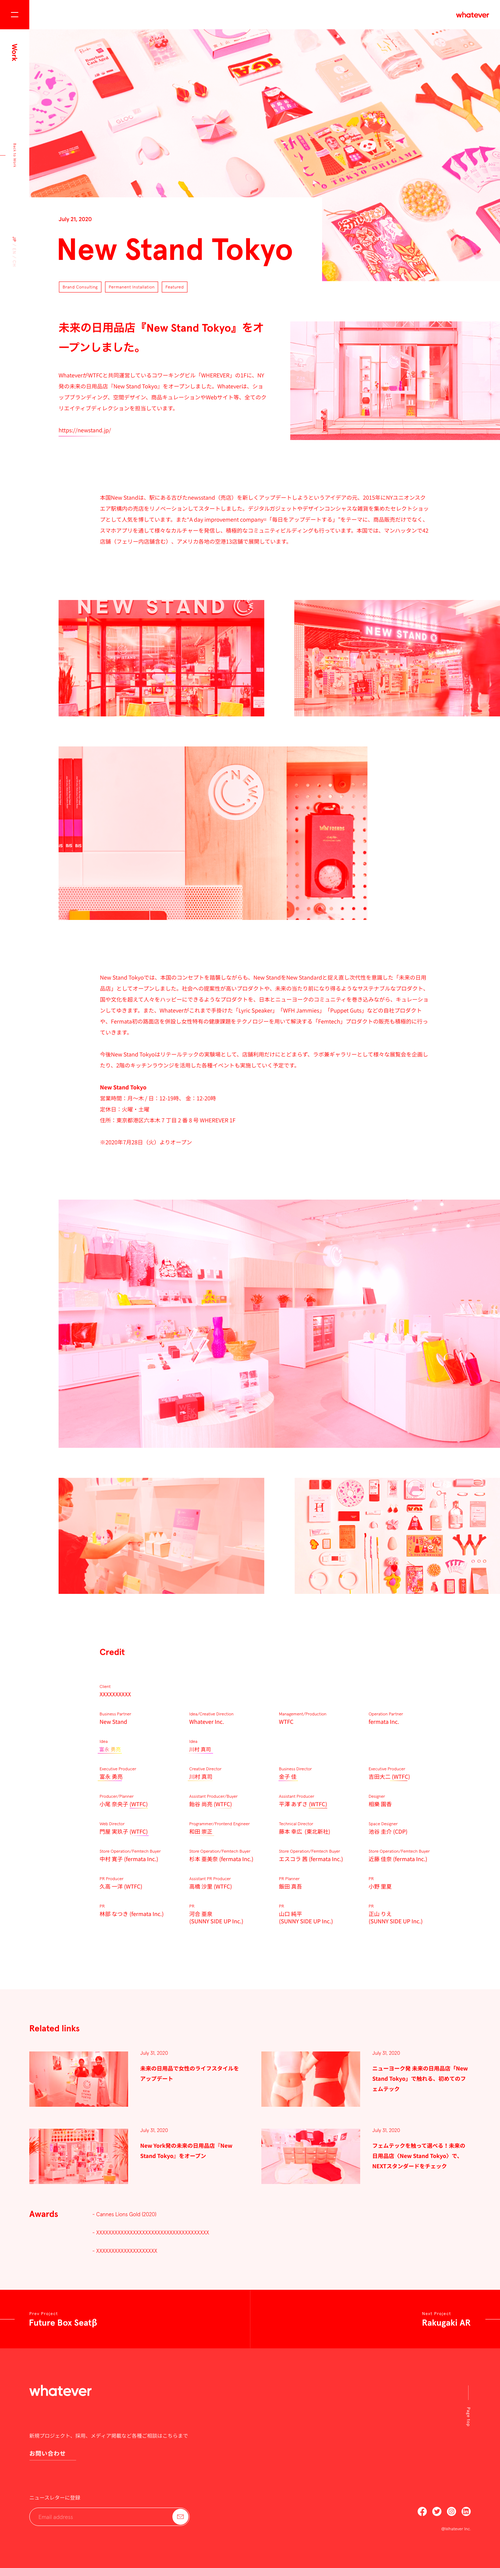
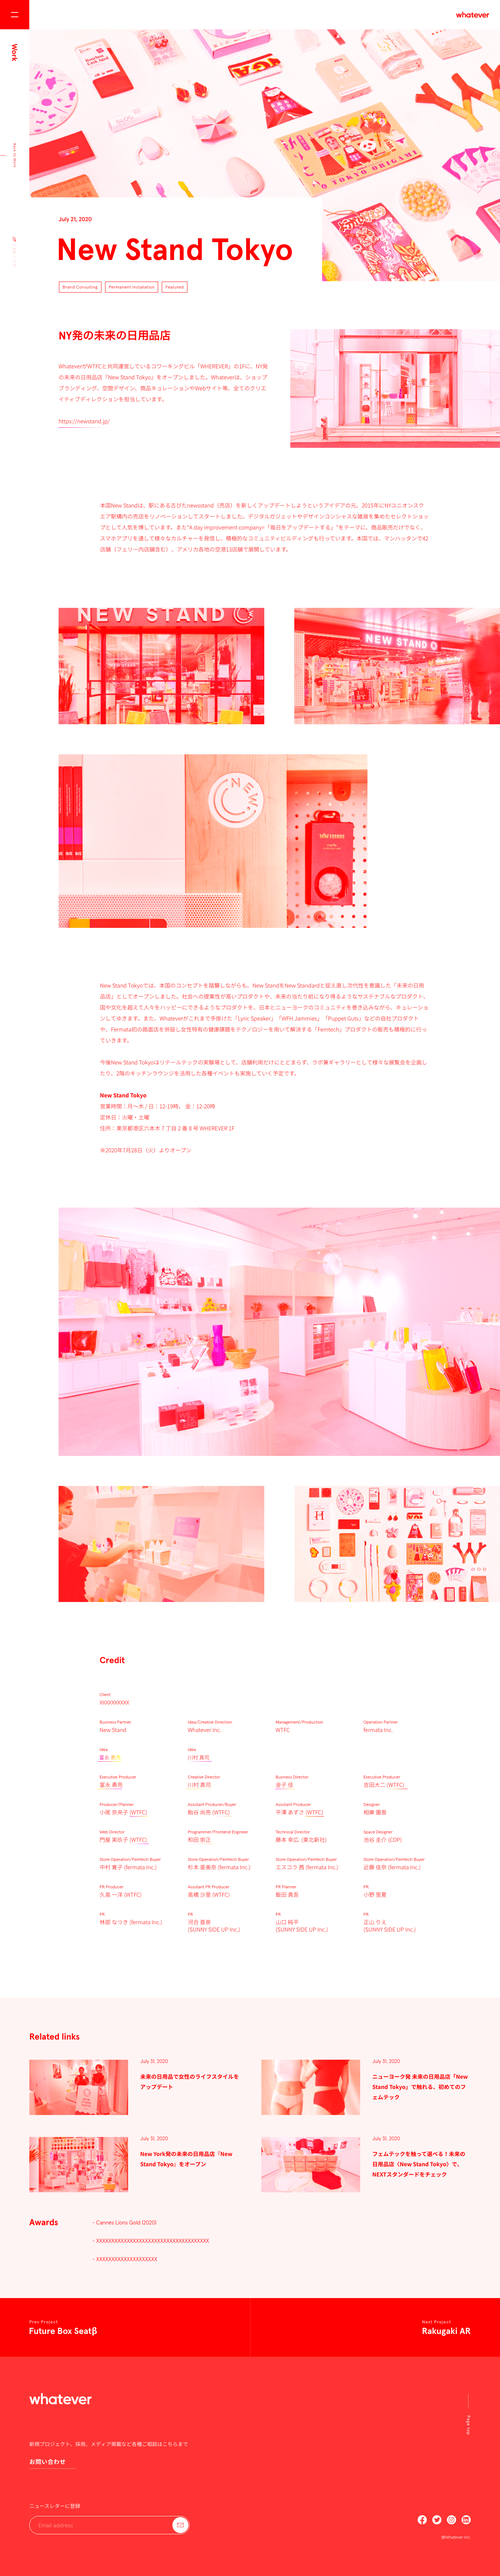
Image block

diff --git a/pages/work/[slug].tsx b/pages/work/[slug].tsx
@@ -32,7 +32,7 @@ const Header = ({ work }: { work: Entry }) => {
         .header
           position relative
           font-size 0
-          margin-bottom vwpx(19)
+          margin-bottom vwpx(40)
         .image
           position fixed
           top 80px
@@ -92,7 +92,7 @@ const Excerpt = ({ title, description }: { title: string, description: string })
         font-weight bold
         line-height vwpx(54)
         margin-top vwpx(-8)
-        margin-bottom vwpx(34)
+        margin-bottom vwpx(42)
       .desc
         line-height 3.0rem
       .image img
@@ -118,17 +118,19 @@ const Body = ({ content }: any) => {
       <div ref={body} className="body" dangerouslySetInnerHTML={{ __html: content || '' }} />
       <style jsx>{`
         .body
-          width 900px
+          max-width 900px
           padding 0
           margin 0 auto 130px
       `}</style>
       <style jsx global>{`
+        vwpx(px)
+          'calc((100vw - 80px) * %s)' % (px / (1366 - 80))
         .body
           img
             width 100%
             height auto
           p, table
-            margin 20px 0
+            margin 30px 0
             font-size 1.5rem
             line-height 3.0rem
             word-wrap break-word
@@ -143,6 +145,30 @@ const Body = ({ content }: any) => {
             height 100%
             left 0
             top 0
+          .block-3-images-a
+            display grid
+            grid-template-columns repeat(2, 1fr)
+            grid-gap vwpx(82)
+            width vwpx(1206)
+            margin-top vwpx(143)
+            margin-left vwpx(-113)
+            margin-bottom vwpx(144)
+            >:nth-child(1)
+              grid-column span 2
+              object-fit cover
+          .block-3-images-b
+            display grid
+            grid-template-columns repeat(2, 1fr)
+            grid-gap vwpx(82)
+            width vwpx(1206)
+            margin-top vwpx(143)
+            margin-left vwpx(-113)
+            margin-bottom vwpx(144)
+            >:nth-child(3)
+              grid-column span 2
+              width vwpx(844)
+              height vwpx(474)
+              object-fit cover
       `}</style>
     </div>
   )
@@ -158,67 +184,65 @@ const CreditMember = ({ member }: { member: Person }) => {
     }
   }
   return (
-    <div className="container">
+    <div className="member">
       <Grad><div className="role">{member.role}</div></Grad>
       <Grad><div className="name">
         {name}
         {member.company ? <span className="company">&nbsp;{member.url ? <a href={member.url} target="_blank" rel="noopener noreferrer">({member.company})</a> : `(${member.company})`}</span> : null}
       </div></Grad>
       <style jsx>{`
-      .container
-        margin-bottom 40px
-        font-size 0
-      .role
-        display inline-block
-        font-size 12px
-        font-weight light
-      .name
-        display inline-block
-        font-size 16px
-        font-weight normal
-        margin-top 7px
-      .company
-        display inline-block
-      a, :global(.credit-name-link)
-        display inline-block
-        padding-bottom 1px
-        border-bottom 1px solid red
-    `}</style>
+        .member
+          margin-bottom 37px
+          font-size 0
+          font-weight light
+        .role
+          display inline-block
+          font-size 1.2rem
+          line-height 1.2rem
+        .name
+          display inline-block
+          font-size 1.5rem
+          line-height 2.1rem
+          margin-top 3px
+        .company
+          display inline-block
+        a, :global(.credit-name-link)
+          display inline-block
+          padding-bottom 1px
+          border-bottom 1px solid red
+      `}</style>
     </div>
   )
 }
 
 const CreditGroup = ({ credit }: { credit: Credit }) => (
-  <div className="container">
+  <div className="credit-group">
     {credit.members.map(member => <CreditMember key={member.name} member={member} />)}
     <style jsx>{`
-      .container
+      .credit-group
         display grid
         grid-template-columns repeat(4, 1fr)
+        grid-column-gap 60px
     `}</style>
   </div>
 )
 
 const Credits = ({ credit }: { credit: Credit[] }) => (
-  <div className="container">
+  <div className="credits">
     <Grad><h2>Credit</h2></Grad>
     {credit.map((credit, index) => <CreditGroup key={index} credit={credit} />)}
     <style jsx>{`
-      .container
-        width 980px
+      .credits
+        width 900px
         margin auto
-        margin-top -5px
-        margin-left 192px
-        margin-bottom 120px
+        margin-top -16px
+        margin-bottom 135px
         font-size 0
       h2
         display inline-block
         font-size 24px
         font-weight bold
         margin-bottom 77px
-      .credits
-        display grid
-        grid-template-columns repeat(4, 1fr)
     `}</style>
   </div>
 )
@@ -226,7 +250,7 @@ const Credits = ({ credit }: { credit: Credit[] }) => (
 const WorkDetail = ({ work }: { work: Entry }) => (
   <Layout title={work.title} side="Work" backto="/work/category/all">
     <Header work={work} />
-    <Excerpt title={'未来の日用品店『New Stand Tokyo』をオープンしました。'} description={'Whatever が WTFC と共同運営しているコワーキングビル「WHEREVER」の 1F に、NY 発の未来の日用品店『New Stand Tokyo』をオープンしました。Whatever は、ショップブランディング、空間デザイン、商品キュレーションや Web サイト等、全てのクリエイティブディレクションを担当しています。<br/><br/><a href="https://newstand.jp/">https://newstand.jp/</a>'} />
+    <Excerpt title={work.subtitle || '(Subtitle)'} description={work.overview || '(Overview)'} />
     <Body content={work.content} />
     <Credits credit={work.credit || []} />
   </Layout >

diff --git a/lib/api.ts b/lib/api.ts
@@ -238,6 +238,8 @@ export async function getPostDetails(slug: string, locale: string = 'ja'): Promi
   return {
     slug: data.slug,
     title: data.title.rendered,
+    subtitle: data.acf?.subtitle,
+    overview: data.acf?.overview,
     content: replaceToCDN(data.content.rendered),
     date: DateTime.fromISO(data.date).toFormat(`LLL dd, yyyy`),
     image: replaceToCDN(data._embedded['wp:featuredmedia'][0].source_url),
